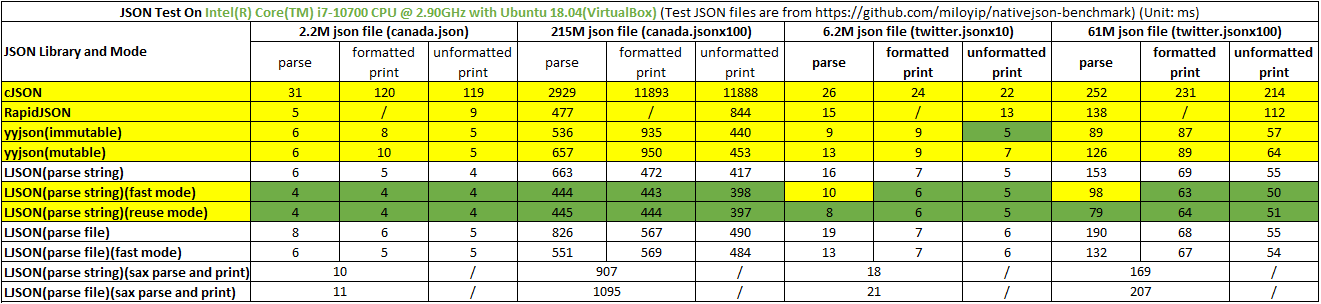
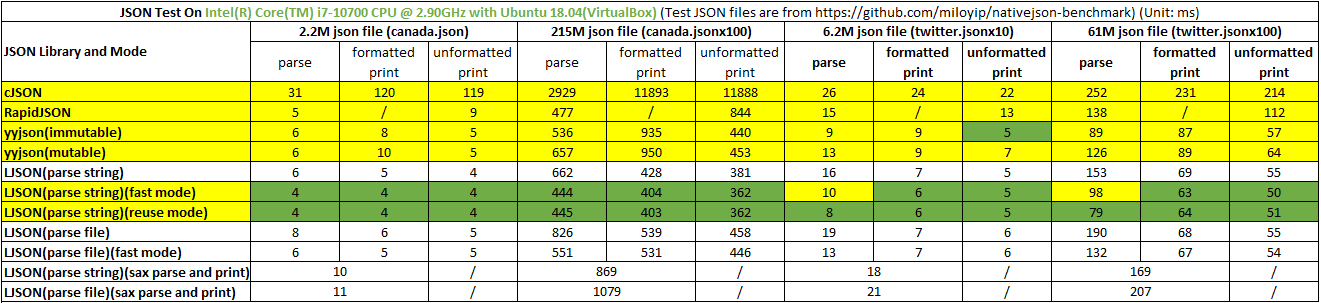
Optimize ldouble algorithm

Changed region(s): [[0.0, 0.0891, 1.0, 1.0], [0.0, 0.1485, 0.1241, 0.2079]]

diff --git a/ldouble.c b/ldouble.c
@@ -555,7 +555,7 @@ static inline int32_t fill_1_20_digits(char *buffer, uint64_t digits, int32_t *p
         if (!r) {
             memset(s, '0', 16);
             s += 16;
-            *ptz = 16;
+            *ptz += 16;
         } else {
             s += fill_t_16_digits(s, r, ptz);
         }
@@ -564,9 +564,107 @@ static inline int32_t fill_1_20_digits(char *buffer, uint64_t digits, int32_t *p
     return s - buffer;
 }
 
+static inline int32_t fill_a_4_digits(char *buffer, uint32_t digits, int32_t *ptz)
+{
+    char *s = buffer;
+    uint32_t q = FAST_DIV100(digits);
+    uint32_t r = digits - q * 100;
+
+    memcpy(s, &ch_100_lut[q<<1], 2);
+    memcpy(s + 2, &ch_100_lut[r<<1], 2);
+
+    if (r < 5) {
+        *ptz = tz_100_lut[q] + 2;
+    } else {
+        if (s[3] < '5') {
+            s[3] = '0';
+            *ptz = 1;
+        } else {
+            s[3] -= 2;
+            *ptz = 0;
+        }
+    }
+
+    return 4;
+}
+
+static inline int32_t fill_a_8_digits(char *buffer, uint32_t digits, int32_t *ptz)
+{
+    char *s = buffer;
+
+    if (digits < 10000) {
+        memset(s, '0', 4);
+        fill_a_4_digits(s + 4, digits, ptz);
+    } else {
+        uint32_t q = FAST_DIV10000(digits);
+        uint32_t r = digits - q * 10000;
+
+        fill_t_4_digits(s, q, ptz);
+        if (r < 5) {
+            memset(s + 4, '0', 4);
+            *ptz += 4;
+        } else {
+            fill_a_4_digits(s + 4, r, ptz);
+        }
+    }
+
+    return 8;
+}
+
+static inline int32_t fill_a_16_digits(char *buffer, uint64_t digits, int32_t *ptz)
+{
+    char *s = buffer;
+
+    if (digits < 100000000llu) {
+        memset(s, '0', 8);
+        fill_a_8_digits(s + 8, digits, ptz);
+    } else {
+        uint32_t q = (uint32_t)(digits / 100000000);
+        uint32_t r = (uint32_t)(digits - (uint64_t)q * 100000000);
+
+        fill_t_8_digits(s, q, ptz);
+        if (r < 5) {
+            memset(s + 8, '0', 8);
+            *ptz += 8;
+        } else {
+            fill_a_8_digits(s + 8, r, ptz);
+        }
+    }
+
+    return 16;
+}
+
 static inline int32_t fill_significand(char *buffer, uint64_t digits, int32_t *ptz)
 {
-   return fill_1_20_digits(buffer, digits, ptz);
+    char *s = buffer;
+
+    if (digits < 10000000000000000llu) {
+        uint32_t q = (uint32_t)(digits / 100000000);
+        uint32_t r = (uint32_t)(digits - (uint64_t)q * 100000000);
+
+        s += fill_1_8_digits(s, q, ptz);
+        if (r < 5) {
+            *ptz += 8;
+            memset(s, '0', 8);
+            s += 8;
+        } else {
+            s += fill_a_8_digits(s, r, ptz);
+        }
+    } else {
+        uint32_t q = (uint32_t)(digits / 10000000000000000llu);
+        uint64_t r = (digits - (uint64_t)q * 10000000000000000llu);
+
+        s += fill_1_4_digits(s, q, ptz);
+        if (r < 5) {
+            memset(s, '0', 16);
+            s += 16;
+            *ptz += 16;
+        } else {
+            s += fill_a_16_digits(s, r, ptz);
+        }
+    }
+
+    return s - buffer;
 }
 
 static inline int32_t fill_exponent(int32_t K, char* buffer)
@@ -603,15 +701,6 @@ static inline char* ldouble_format(char* buffer, uint64_t digits, int32_t decima
     int32_t num_digits, trailing_zeros, vnum_digits, decimal_point;
 
     num_digits = fill_significand(buffer + 1, digits + 2, &trailing_zeros);
-    if (buffer[num_digits] >= '5') {
-        buffer[num_digits] -= 2;
-    } else {
-        buffer[num_digits] = '0';
-        for (trailing_zeros = 1; trailing_zeros < num_digits; ++trailing_zeros) {
-            if (buffer[num_digits - trailing_zeros] != '0')
-                break;
-        }
-    }
     vnum_digits = num_digits - trailing_zeros;
     decimal_point = num_digits + decimal_exponent;
 

diff --git a/json.c b/json.c
@@ -1505,7 +1505,7 @@ static inline int32_t fill_1_20_digits(char *buffer, uint64_t digits, int32_t *p
         if (!r) {
             memset(s, '0', 16);
             s += 16;
-            *ptz = 16;
+            *ptz += 16;
         } else {
             s += fill_t_16_digits(s, r, ptz);
         }
@@ -2042,9 +2042,107 @@ static inline void ldouble_convert(diy_fp_t *v)
     v->e = e - x.e + 19;
 }
 
+static inline int32_t fill_a_4_digits(char *buffer, uint32_t digits, int32_t *ptz)
+{
+    char *s = buffer;
+    uint32_t q = FAST_DIV100(digits);
+    uint32_t r = digits - q * 100;
+
+    memcpy(s, &ch_100_lut[q<<1], 2);
+    memcpy(s + 2, &ch_100_lut[r<<1], 2);
+
+    if (r < 5) {
+        *ptz = tz_100_lut[q] + 2;
+    } else {
+        if (s[3] < '5') {
+            s[3] = '0';
+            *ptz = 1;
+        } else {
+            s[3] -= 2;
+            *ptz = 0;
+        }
+    }
+
+    return 4;
+}
+
+static inline int32_t fill_a_8_digits(char *buffer, uint32_t digits, int32_t *ptz)
+{
+    char *s = buffer;
+
+    if (digits < 10000) {
+        memset(s, '0', 4);
+        fill_a_4_digits(s + 4, digits, ptz);
+    } else {
+        uint32_t q = FAST_DIV10000(digits);
+        uint32_t r = digits - q * 10000;
+
+        fill_t_4_digits(s, q, ptz);
+        if (r < 5) {
+            memset(s + 4, '0', 4);
+            *ptz += 4;
+        } else {
+            fill_a_4_digits(s + 4, r, ptz);
+        }
+    }
+
+    return 8;
+}
+
+static inline int32_t fill_a_16_digits(char *buffer, uint64_t digits, int32_t *ptz)
+{
+    char *s = buffer;
+
+    if (digits < 100000000llu) {
+        memset(s, '0', 8);
+        fill_a_8_digits(s + 8, digits, ptz);
+    } else {
+        uint32_t q = (uint32_t)(digits / 100000000);
+        uint32_t r = (uint32_t)(digits - (uint64_t)q * 100000000);
+
+        fill_t_8_digits(s, q, ptz);
+        if (r < 5) {
+            memset(s + 8, '0', 8);
+            *ptz += 8;
+        } else {
+            fill_a_8_digits(s + 8, r, ptz);
+        }
+    }
+
+    return 16;
+}
+
 static inline int32_t fill_significand(char *buffer, uint64_t digits, int32_t *ptz)
 {
-   return fill_1_20_digits(buffer, digits, ptz);
+    char *s = buffer;
+
+    if (digits < 10000000000000000llu) {
+        uint32_t q = (uint32_t)(digits / 100000000);
+        uint32_t r = (uint32_t)(digits - (uint64_t)q * 100000000);
+
+        s += fill_1_8_digits(s, q, ptz);
+        if (r < 5) {
+            *ptz += 8;
+            memset(s, '0', 8);
+            s += 8;
+        } else {
+            s += fill_a_8_digits(s, r, ptz);
+        }
+    } else {
+        uint32_t q = (uint32_t)(digits / 10000000000000000llu);
+        uint64_t r = (digits - (uint64_t)q * 10000000000000000llu);
+
+        s += fill_1_4_digits(s, q, ptz);
+        if (r < 5) {
+            memset(s, '0', 16);
+            s += 16;
+            *ptz += 16;
+        } else {
+            s += fill_a_16_digits(s, r, ptz);
+        }
+    }
+
+    return s - buffer;
 }
 
 static inline int32_t fill_exponent(int32_t K, char* buffer)
@@ -2081,15 +2179,6 @@ static inline char* ldouble_format(char* buffer, uint64_t digits, int32_t decima
     int32_t num_digits, trailing_zeros, vnum_digits, decimal_point;
 
     num_digits = fill_significand(buffer + 1, digits + 2, &trailing_zeros);
-    if (buffer[num_digits] >= '5') {
-        buffer[num_digits] -= 2;
-    } else {
-        buffer[num_digits] = '0';
-        for (trailing_zeros = 1; trailing_zeros < num_digits; ++trailing_zeros) {
-            if (buffer[num_digits - trailing_zeros] != '0')
-                break;
-        }
-    }
     vnum_digits = num_digits - trailing_zeros;
     decimal_point = num_digits + decimal_exponent;
 

diff --git a/json.h b/json.h
@@ -10,7 +10,7 @@
 #include <stdbool.h>
 #include <stdlib.h>
 
-#define JSON_VERSION                    0x010301
+#define JSON_VERSION                    0x010302
 #define JSON_SAX_APIS_SUPPORT           1
 #define JSON_LONG_LONG_SUPPORT          1
 

diff --git a/README.md b/README.md
@@ -8,7 +8,7 @@ By default, LJSON uses the personally developed ldouble algorithm to print doubl
 
 ## Features
 
-* Faster: Print and parse faster than both cJSON and RapidJSON, up to 19 times faster than CJSON and 1 time faster than Rapid JSON, refer to below test results
+* Faster: Print and parse faster than both cJSON and RapidJSON, up to **32** times faster than CJSON and **1.5** time faster than Rapid JSON, refer to below test results
 * Lighter: Provide a variety of methods to save memory, such as pool memory, file parsing while reading, file writing while printing, and SAX APIs. It can make memory usage a constant
 * Stronger: Support DOM and SAX-style APIs, provide APIs for JSON in classic mode and memory pool mode, support string and file as input and output, is extended to support long long integer and hexadecimal number
 * More friendly: C language implementation, does not depend on any other library, does not contain platform-related code, only one header file and source file, and the interface corresponding to cJSON. the code logic is clearer than any other JSON libraries
@@ -36,10 +36,10 @@ make O=<output path> CROSS_COMPILE=<tool prefix> && make O=<output path> DESTDIR
 ```
 
 * Select double to string algorithm `gcc -DJSON_DTOA_ALGORITHM=n`, n may be 0 / 1 / 2 / 3
-    * 0: Personal implementation of ldouble algorithm: faster than Google's default implementation of grisu2 **117%** , faster than Tencent optimized grisu2 implementation **30%**, faster than sprintf **13.3** times
+    * 0: Personal implementation of ldouble algorithm: faster than Google's default implementation of grisu2 **129%** , faster than Tencent optimized grisu2 implementation **33%**, faster than sprintf **14.6** times
     * 1: C standard library sprintf
     * 2: Personal optimized grisu2 algorithm: Google's grisu2 default implementation is **5.7** times faster than sprintf, Tencent optimized grisu2 implementation is **9.1** times faster than sprintf, LJSON optimized implementation is faster than sprintf **11.4** times
-    * 3: Personal optimized dragonbox algorithm: the speed performance is basically the same as the ldouble algorithm
+    * 3: Personal optimized dragonbox algorithm: the speed performance is slower than ldouble algorithm, but faster than grisu2 algorithm
 
 ### Run Method
 
@@ -64,12 +64,12 @@ make O=<output path> CROSS_COMPILE=<tool prefix> && make O=<output path> DESTDIR
 Note: 'O2' optimization level and default option compilation, the test files come from the [nativejson-benchmark](https://github.com/miloyip/nativejson-benchmark) project
 
 > Test Platform: Ambarella CV25M Board | CPU: ARM CortexA53 | OS: Linux-5.15<br>
-> Test Result: LJSON parses 475% faster and prints 2225% faster than cJSON, LJSON parses 131% faster and prints 137% faster than RapidJSON
+> Test Result: LJSON parses 475% faster and prints 2836% faster than cJSON, LJSON parses 131% faster and prints 147% faster than RapidJSON
 
 ![AARCH64-Linux Test Result](test_result/test_for_aarch64.png)
 
 > Test Platform: PC | CPU: Intel i7-10700 | OS: Ubuntu 18.04 (VirtualBox)<br>
-> Test Result: LJSON parses 560% faster and prints 2894% faster than cJSON, LJSON parses 75% faster and prints 124% faster than RapidJSON
+> Test Result: LJSON parses 560% faster and prints 3184% faster than cJSON, LJSON parses 75% faster and prints 133% faster than RapidJSON
 
 ![x86_64-Linux Test Result](test_result/test_for_x86_64.png)
 
